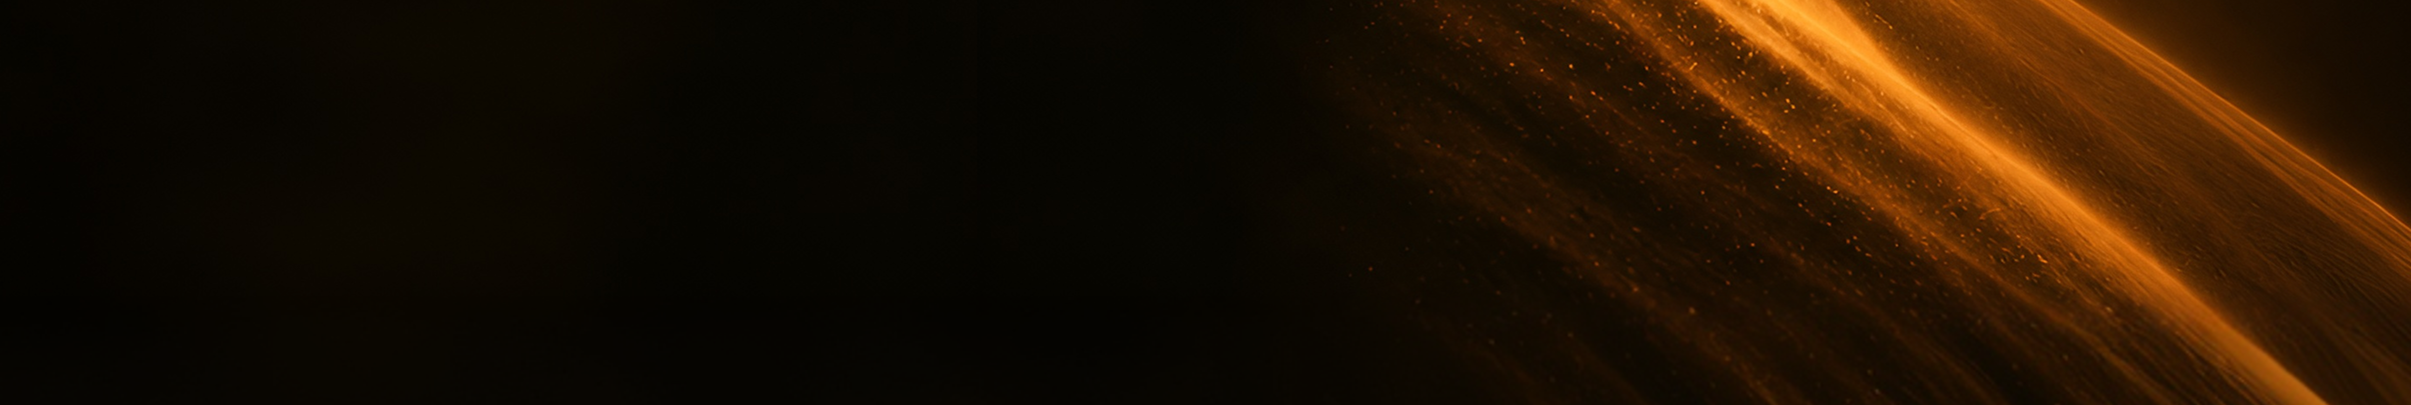
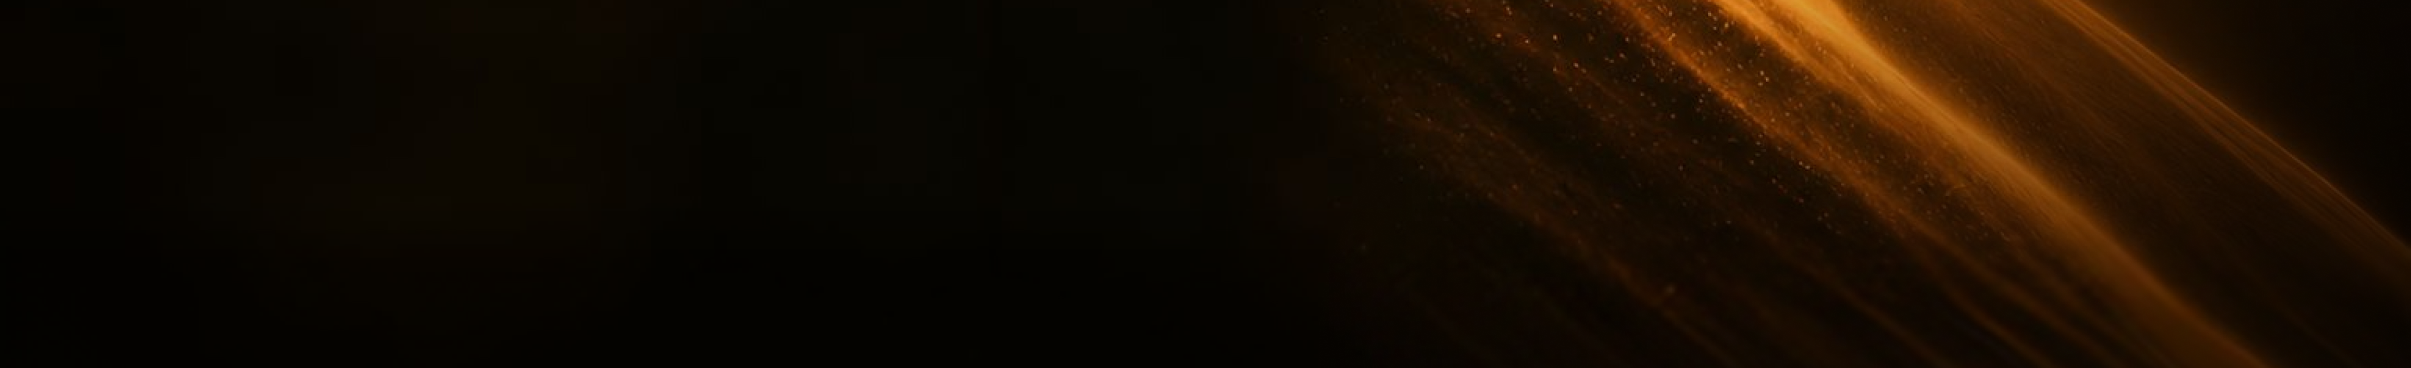
hero section controller fix

diff --git a/src/components/Hero.css b/src/components/Hero.css
@@ -50,8 +50,8 @@
 .hero__logo {
   /* Font: Oldschool Tag (drop file in public/fonts/). Will become a Lottie. */
   font-family: 'Oldschool Tag', system-ui, sans-serif;
-  /* 50px in the design, scaled to 0.65x per request */
-  font-size: clamp(1.3rem, 2.21vw, 32.5px);
+  /* 50px in the design, 0.65x then +10% */
+  font-size: clamp(1.43rem, 2.431vw, 35.75px);
   letter-spacing: -1.5px;
   line-height: 1;
   color: #000;
@@ -81,9 +81,9 @@
 }
 
 .hero__link {
-  /* Font: Mondapick. 24px in the design, scaled to 0.8x per request. */
+  /* Font: Mondapick. 24px in the design, 0.8x then -10%. */
   font-family: 'Mondapick', system-ui, sans-serif;
-  font-size: clamp(0.8rem, 1.2vw, 19.2px);
+  font-size: clamp(0.72rem, 1.08vw, 17.28px);
   color: #fff;
   text-decoration: none;
   white-space: nowrap;
@@ -111,9 +111,9 @@
 .hero__arrow {
   position: relative;
   flex: none;
-  /* 24px in the design, scaled to 0.8x per request */
-  width: clamp(14.4px, 1.2vw, 19.2px);
-  height: clamp(14.4px, 1.2vw, 19.2px);
+  /* 24px in the design, 0.8x then -10% */
+  width: clamp(12.96px, 1.08vw, 17.28px);
+  height: clamp(12.96px, 1.08vw, 17.28px);
 }
 .hero__arrow-img {
   position: absolute;

diff --git a/src/components/SectionScroller.css b/src/components/SectionScroller.css
@@ -19,15 +19,16 @@
   will-change: transform;
 }
 
-/* transition "semi page": transition1.png (2000x383) is the hero's bg continued
-   downward. Scale it to the hero's exact horizontal scale (the hero fits its
-   2411x1101 photo to the viewport height: 1101px -> 100vh, so 2000px -> 181.65vh)
-   and pin it to the top, centred, with black below leading into About. */
+/* transition "semi page": transition1.png (2411x405) is the hero's bg continued
+   downward — SAME width as background_new.png (2411). The hero fits its 2411x1101
+   photo to the viewport height (1101px -> 100vh), so the bg renders 2411px wide =
+   2411/1101 * 100vh = 218.98vh. Matching that width + centring it gives the exact
+   same horizontal alignment as the hero; pinned to the top, black below. */
 .snap-xtn {
   position: relative;
   background-color: #000;
   background-image: url('/images/transition1.png');
   background-repeat: no-repeat;
   background-position: center top;
-  background-size: 181.65vh auto;
+  background-size: 218.98vh auto;
 }

diff --git a/src/components/SectionScroller.jsx b/src/components/SectionScroller.jsx
@@ -1,5 +1,4 @@
 import { useEffect, useRef } from 'react';
-import GradualBlur from './GradualBlur.jsx';
 import './SectionScroller.css';
 
 // Three stacked full-viewport panels: HERO -> TRANSITION (transition1.png, the
@@ -118,12 +117,8 @@ export default function SectionScroller({ children, onActiveChange }) {
       <div className="snap-track" ref={trackRef}>
         <div className="snap-section">{kids[0]}</div>
 
-        {/* transition "semi page": hero background continued downward; soft
-            gradual-blur edges blend it into the hero above and the about below */}
-        <div className="snap-section snap-xtn">
-          <GradualBlur position="top" height="24%" strength={3} divCount={6} curve="bezier" />
-          <GradualBlur position="bottom" height="24%" strength={3} divCount={6} curve="bezier" />
-        </div>
+        {/* transition "semi page": hero background continued downward */}
+        <div className="snap-section snap-xtn" />
 
         <div className="snap-section">{kids[1]}</div>
       </div>